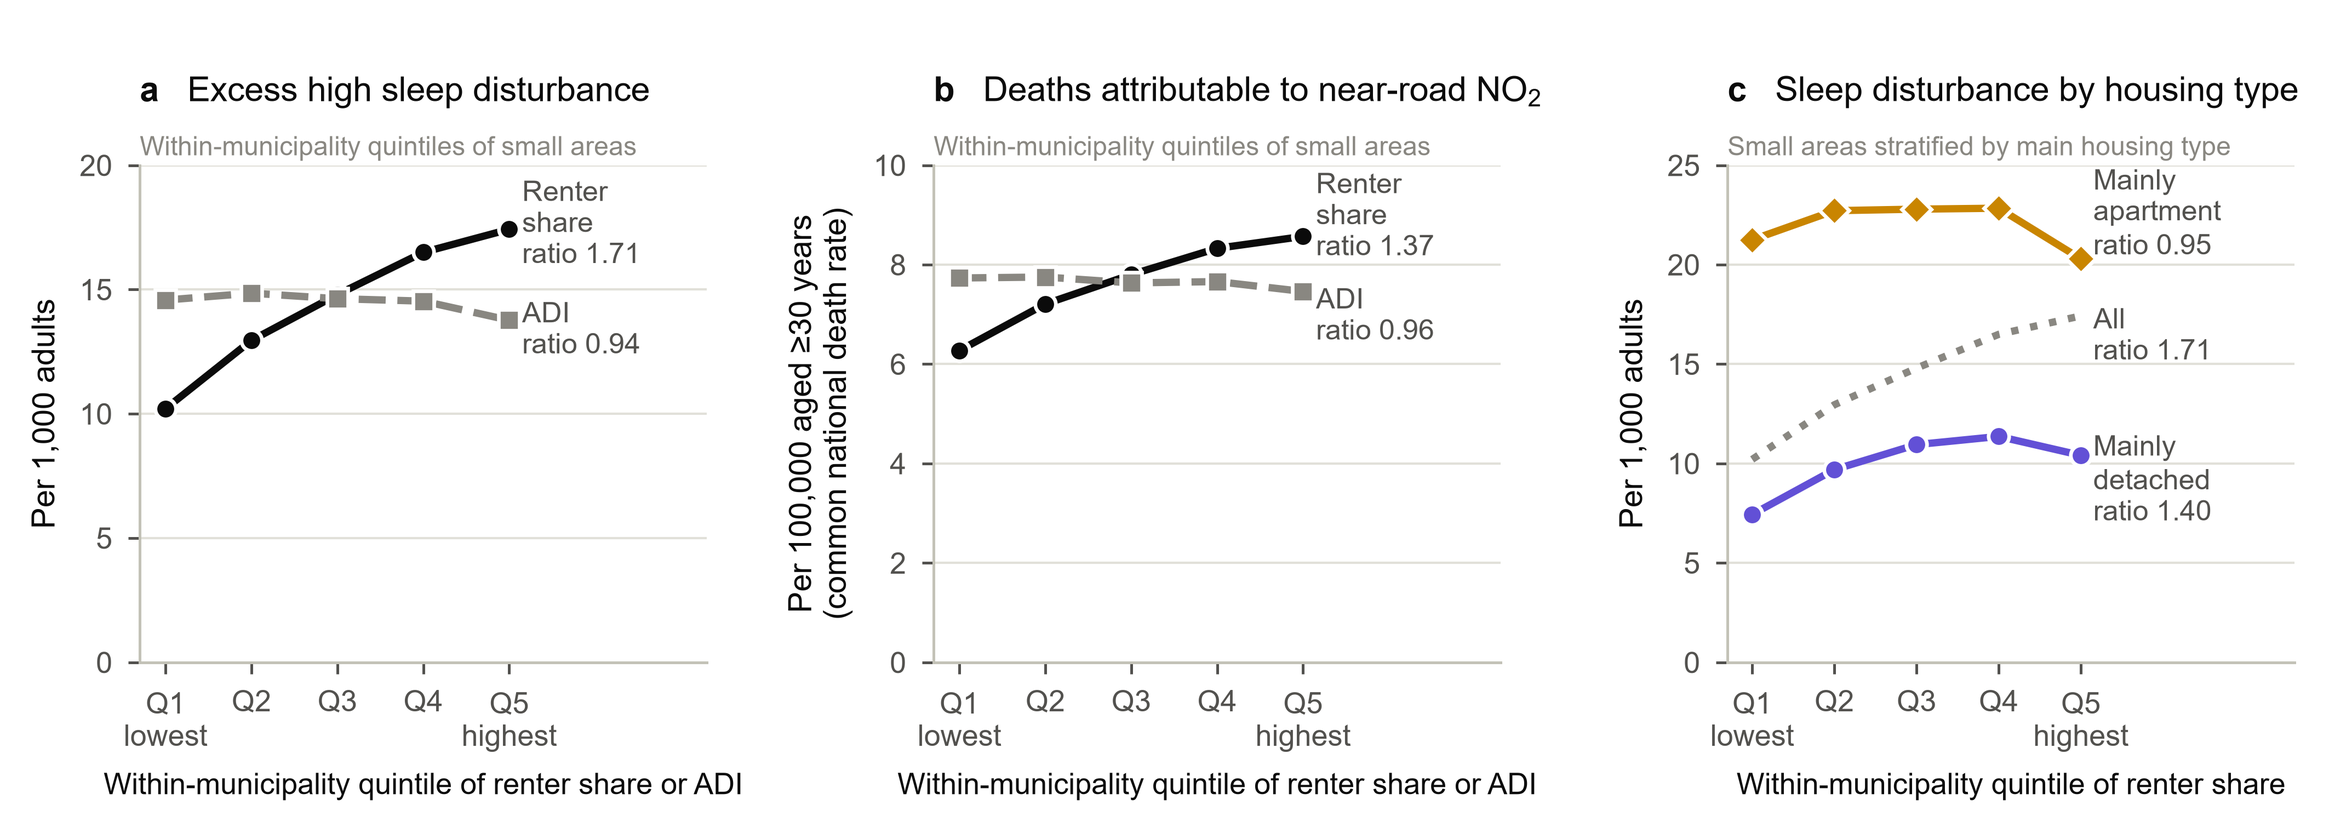
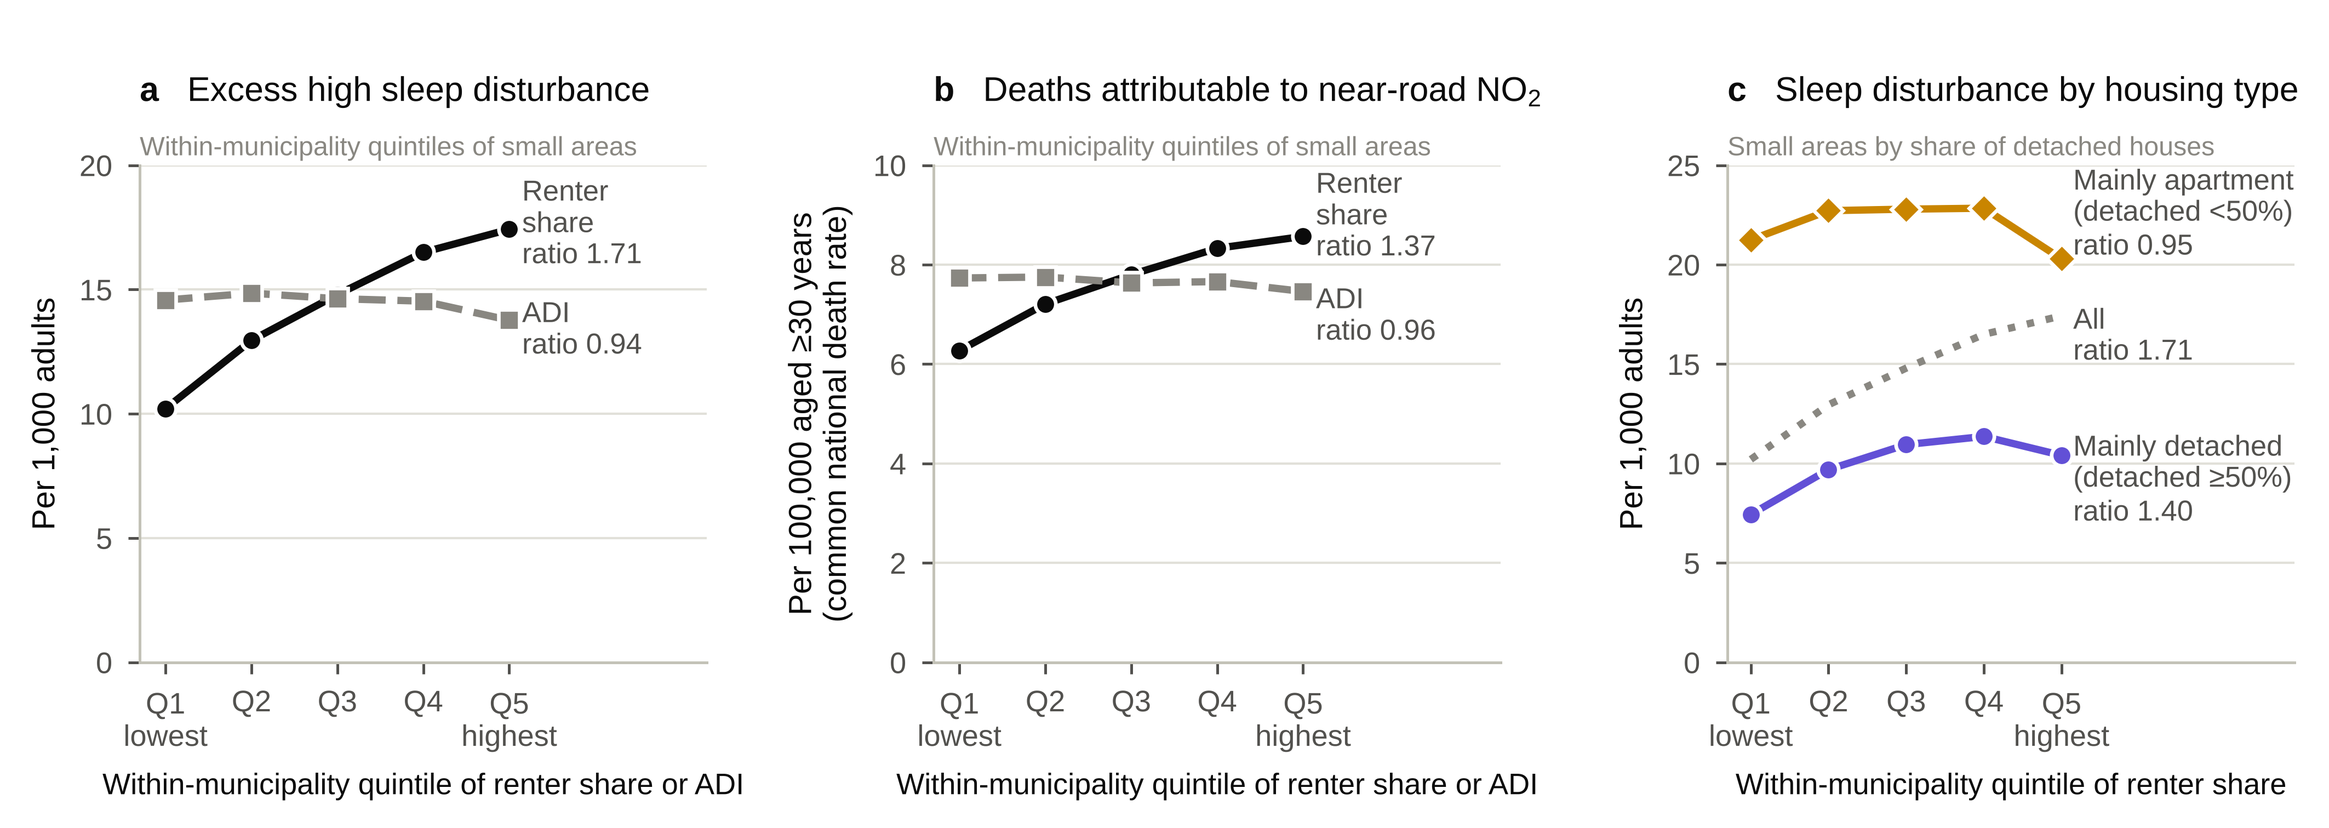
Show the simple roadside-population rule in Fig. 4 and add the NO2 co-benefit for gamma = 16
Fig. 4a: relative loss in sleep benefit and change in disparity ratio with consistent signs.
Fig. 2c: criterion of the housing-type groups shown in the labels.
Supplementary Table 7: NO2 deaths avoided with the equity-weighted allocation (gamma = 16).
README: wording of the main results.

diff --git a/src/paper/make_figures_en.py b/src/paper/make_figures_en.py
@@ -28,7 +28,7 @@ mpl.rcParams.update({'font.family': FONT, 'font.size': 7, 'axes.titlesize': 7.5,
     'figure.facecolor': 'white', 'axes.facecolor': 'white', 'savefig.dpi': 600, 'pdf.fonttype': 42, 'ps.fonttype': 42, 'axes.unicode_minus': True, 'legend.frameon': False,
     'mathtext.fontset': 'custom', 'mathtext.rm': FONT, 'mathtext.it': FONT + ':italic', 'mathtext.bf': FONT + ':bold', 'mathtext.default': 'regular'})
 INK = '#0b0b0b'; INK2 = '#52514e'; MUTED = '#898781'; GRID = '#e1e0d9'
-BLUE = '#2a78d6'; ORANGE = '#eb6834'; AQUA = '#1baf7a'; VIOLET = '#6250d6'; GRAY = '#898781'; LBLUE = '#86b6ef'
+BLUE = '#2a78d6'; ORANGE = '#eb6834'; AQUA = '#1baf7a'; VIOLET = '#6250d6'; GRAY = '#898781'; LBLUE = '#86b6ef'; OCHRE = '#c98500'
 BLUES = LinearSegmentedColormap.from_list('b', ['#cde2fb', '#86b6ef', '#3987e5', '#256abf', '#184f95', '#0d366b'])
 ORANGES = LinearSegmentedColormap.from_list('o', ['#fde6da', '#f6b393', '#ef8a5d', '#eb6834', '#b9461b', '#7a2c0f'])
 MM = 1 / 25.4
@@ -115,10 +115,10 @@ def fig2():
           'Per 1,000 adults', r'$\bf{a}$   Excess high sleep disturbance', 20, [0.3, -0.3])
     lines(axs[1], [('Renter\nshare', g('p_rent', 'all', 'NO2D_std_per100k30'), INK, '-', 'o'), ('ADI', g('ADI_raw', 'all', 'NO2D_std_per100k30'), MUTED, '--', 's')],
           'Per 100,000 aged ≥30 years\n(common national death rate)', r'$\bf{b}$   Deaths attributable to near-road NO$_2$', 10, [0.45, -0.45])
-    lines(axs[2], [('Mainly\ndetached', g('p_rent', 'detached_major', 'HSD_per1000adult'), VIOLET, '-', 'o'), ('Mainly\napartment', g('p_rent', 'apartment_major', 'HSD_per1000adult'), '#c98500', '-', 'D'),
-                   ('All', g('p_rent', 'all', 'HSD_per1000adult'), MUTED, ':', '')], 'Per 1,000 adults', r'$\bf{c}$   Sleep disturbance by housing type', 25, [-1.2, 2.3, -0.9], 7.6)
+    lines(axs[2], [('Mainly detached\n(detached ≥50%)', g('p_rent', 'detached_major', 'HSD_per1000adult'), VIOLET, '-', 'o'), ('Mainly apartment\n(detached <50%)', g('p_rent', 'apartment_major', 'HSD_per1000adult'), '#c98500', '-', 'D'),
+                   ('All', g('p_rent', 'all', 'HSD_per1000adult'), MUTED, ':', '')], 'Per 1,000 adults', r'$\bf{c}$   Sleep disturbance by housing type', 25, [-1.2, 2.3, -0.9], 8.0)
     for ax in axs[:2]: ax.text(0, 1.02, 'Within-municipality quintiles of small areas', transform=ax.transAxes, fontsize=5.8, color=MUTED)
-    axs[2].text(0, 1.02, 'Small areas stratified by main housing type', transform=axs[2].transAxes, fontsize=5.8, color=MUTED)
+    axs[2].text(0, 1.02, 'Small areas by share of detached houses', transform=axs[2].transAxes, fontsize=5.8, color=MUTED)
     for ax in axs: ax.set_xlabel('Within-municipality quintile of renter share or ADI' if ax is not axs[2] else 'Within-municipality quintile of renter share', fontsize=6.5)
     save(fig, 'Fig2')
 
@@ -172,12 +172,18 @@ def fig4():
         ax.set_xlim(*xlim); ax.set_ylim(*ylim); ax.set_xlabel(xl); ax.set_ylabel('Reduction in excess high sleep disturbance (%)')
         ax.yaxis.grid(True, color=GRID, lw=0.5); ax.xaxis.grid(True, color=GRID, lw=0.5); ax.set_axisbelow(True)
         ax.set_title(title, loc='left', fontsize=7.5, color=INK, pad=4)
-    def trade(ax, meas, xcol, allx, ally, big=True, g16left=False, all_left=False):
+    POPD = pd.read_csv(B + 'data/v10_popdensity_rule.csv').set_index('name').loc['adults200m_per_length']   # simple roadside-population rule (Supplementary Table 16)
+    def trade(ax, meas, xcol, allx, ally, big=True, g16left=False, all_left=False, simple=False):
         x = curve(meas, xcol); y = curve(meas, 'reduction_pct')
         ax.plot(x, y, color=LBLUE, lw=1.4, zorder=3); ax.scatter(x[1:-1], y[1:-1], s=10, color=LBLUE, ec='white', lw=0.5, zorder=4)
         s = 40 if big else 22; fs = 7 if big else 6.5
         ax.scatter([x[0]], [y[0]], s=s, color=BLUE, ec='white', lw=0.7, zorder=5); ax.scatter([x[-1]], [y[-1]], s=s, color=ORANGE, ec='white', lw=0.7, zorder=5)
-        ax.annotate('Efficient (γ = 0)', (x[0], y[0]), xytext=(4, -11), textcoords='offset points', fontsize=fs, color=INK, ha='left')
+        mask = dict(boxstyle='square,pad=0.15', fc='white', ec='none') if (simple and xcol == 'ratio') else None   # hides the dashed line behind the labels in panel a
+        ax.annotate('Efficient (γ = 0)', (x[0], y[0]), xytext=(7, 1) if simple else (4, -11), textcoords='offset points', fontsize=fs, color=INK, ha='left', va='center' if simple else 'baseline', bbox=mask)
+        if simple:
+            sx, sy = POPD[{'ratio': 'ratio', 'diff': 'gap'}[xcol]], POPD.red
+            ax.scatter([sx], [sy], s=s * 0.8, marker='P', color=OCHRE, ec='white', lw=0.6, zorder=6)
+            ax.annotate('Simple roadside-\npopulation rule', (sx, sy), xytext=(6, -3), textcoords='offset points', fontsize=6.8, color=INK2, ha='left', va='top', linespacing=1.1, bbox=mask)
         ax.annotate('Equity-weighted (γ = 16)', (x[-1], y[-1]), xytext=(-7, -3) if g16left else (-4, -11), textcoords='offset points', fontsize=fs, color=INK,
                     ha='right' if (g16left or not big) else 'center', va='center' if g16left else 'baseline')
         pts = [('Renter-share-only', pt(meas, 'old_rent', xcol), pt(meas, 'old_rent', 'reduction_pct'), AQUA, 'D'),
@@ -197,31 +203,31 @@ def fig4():
                         textcoords='offset points', fontsize=6.8 if big else 6.5, color=INK2, va='bottom' if U else 'top', linespacing=1.1)
         return x, y
     # a
-    frame(axa, r'$\bf{a}$   Low-noise pavement: sleep benefit and disparity ratio', 'Disparity ratio (Q5/Q1 of renter share, rate per adult)', (1.40, 1.80), (0, 35), base_ratio)
-    x, y = trade(axa, 'pav', 'ratio', 1.7085, 29.5867, all_left=True)
+    frame(axa, r'$\bf{a}$   Low-noise pavement: sleep benefit and disparity ratio', 'Disparity ratio (excess HSD rate, Q5/Q1 by renter share)', (1.40, 1.80), (0, 35), base_ratio)
+    x, y = trade(axa, 'pav', 'ratio', 1.7085, 29.5867, all_left=True, simple=True)
     axa.annotate('', xy=(x[-1], y[-1] + 1.0), xytext=(x[0], y[0] + 1.0), arrowprops=dict(arrowstyle='-|>', color=INK, lw=1.1, mutation_scale=9, connectionstyle='arc3,rad=0.12'))
     axa.text(0.03, 0.975, 'Central estimate: efficient → γ = 16', transform=axa.transAxes, fontsize=7, color=INK, va='top')
-    axa.text(0.03, 0.895, 'Sleep benefit', transform=axa.transAxes, fontsize=7, color=INK2, va='top')
-    axa.text(0.03, 0.855, '−2.7%', transform=axa.transAxes, fontsize=15, color=INK, va='top')
-    axa.text(0.03, 0.765, '22.1% → 21.5%', transform=axa.transAxes, fontsize=7, color=INK2, va='top')
-    axa.text(0.33, 0.895, 'Disparity ratio', transform=axa.transAxes, fontsize=7, color=INK2, va='top')
-    axa.text(0.33, 0.855, '−0.11', transform=axa.transAxes, fontsize=15, color=INK, va='top')
-    axa.text(0.33, 0.765, '1.63 → 1.52', transform=axa.transAxes, fontsize=7, color=INK2, va='top')
-    axa.text(0.97, 0.11, 'Uncertainty (sections fixed to the main selection;\n2.5th–97.5th percentiles of within-run differences)\nSleep benefit −2.6 to −2.8%\nDisparity ratio −0.15 to −0.07',
+    axa.text(0.03, 0.905, 'Relative loss in\nsleep benefit', transform=axa.transAxes, fontsize=7, color=INK2, va='top', linespacing=1.1)
+    axa.text(0.03, 0.835, '2.7%', transform=axa.transAxes, fontsize=14, color=INK, va='top')
+    axa.text(0.03, 0.75, '22.1% → 21.5%', transform=axa.transAxes, fontsize=7, color=INK2, va='top')
+    axa.text(0.33, 0.905, 'Change in\ndisparity ratio', transform=axa.transAxes, fontsize=7, color=INK2, va='top', linespacing=1.1)
+    axa.text(0.33, 0.835, '−0.11', transform=axa.transAxes, fontsize=14, color=INK, va='top')
+    axa.text(0.33, 0.75, '1.63 → 1.52', transform=axa.transAxes, fontsize=7, color=INK2, va='top')
+    axa.text(0.97, 0.11, 'Uncertainty (sections fixed to the main selection;\n2.5th–97.5th percentiles of within-run differences)\nRelative loss in sleep benefit 2.6 to 2.8%\nChange in disparity ratio −0.15 to −0.07',
              transform=axa.transAxes, fontsize=6.3, color=INK2, va='bottom', ha='right', multialignment='left', linespacing=1.35, bbox=dict(boxstyle='round,pad=0.45', fc='white', ec='#c3c2b7', lw=0.6))
     # b
     frame(axb, r'$\bf{b}$   Low-noise pavement: sleep benefit and absolute gap', 'Absolute gap (Q5 − Q1, per 1,000 adults)', (2.0, 7.7), (0, 35), base_gap, left=True)
-    x, y = trade(axb, 'pav', 'diff', 5.1072, 29.5867, g16left=True)
+    x, y = trade(axb, 'pav', 'diff', 5.1072, 29.5867, g16left=True, simple=True)
     g16x, g16y = x[-1], y[-1]; rx, ry = pt('pav', 'old_rent', 'diff'), pt('pav', 'old_rent', 'reduction_pct')
     axb.add_patch(plt.Rectangle((g16x, 0), 7.7 - g16x, g16y, color='#f0efec', lw=0, zorder=1))
     axb.text(5.0, 9.5, 'Larger gap and smaller\nreduction than γ = 16', fontsize=6.5, color=MUTED, ha='left', va='top')
     axb.annotate('', xy=(g16x + 0.03, g16y - 1.2), xytext=(rx - 0.02, ry + 1.0), arrowprops=dict(arrowstyle='-|>', color=INK, lw=1.0, mutation_scale=9))
     axb.text(0.03, 0.975, 'Central estimate: γ = 16 and renter-share-only', transform=axb.transAxes, fontsize=7, color=INK, va='top')
-    axb.text(0.03, 0.905, 'Absolute gap (per 1,000 adults)', transform=axb.transAxes, fontsize=7, color=INK2, va='top')
-    axb.text(0.03, 0.875, '4.5 < 4.7', transform=axb.transAxes, fontsize=15, color=INK, va='top')
-    axb.text(0.03, 0.79, 'Sleep benefit', transform=axb.transAxes, fontsize=7, color=INK2, va='top')
-    axb.text(0.03, 0.76, '21.5% > 14.1%', transform=axb.transAxes, fontsize=15, color=INK, va='top')
-    axb.text(0.03, 0.675, 'Smaller gap and larger benefit with γ = 16', transform=axb.transAxes, fontsize=7, color=INK2, va='top')
+    axb.text(0.03, 0.915, 'Absolute gap (per 1,000 adults)', transform=axb.transAxes, fontsize=7, color=INK2, va='top')
+    axb.text(0.03, 0.887, '4.5 < 4.7', transform=axb.transAxes, fontsize=14, color=INK, va='top')
+    axb.text(0.03, 0.81, 'Sleep benefit', transform=axb.transAxes, fontsize=7, color=INK2, va='top')
+    axb.text(0.03, 0.782, '21.5% > 14.1%', transform=axb.transAxes, fontsize=14, color=INK, va='top')
+    axb.text(0.03, 0.705, 'Smaller gap and larger benefit with γ = 16', transform=axb.transAxes, fontsize=7, color=INK2, va='top')
     gx = V7.loc['absgap_only']
     axb.scatter([gx.rent_gap], [gx.red], s=32, marker='o', color=VIOLET, ec='white', lw=0.6, zorder=5)
     axb.annotate('Gap-only', (gx.rent_gap, gx.red), xytext=(-4, -7), textcoords='offset points', fontsize=6.8, color=INK2, va='top')

diff --git a/src/paper/build_si_tables.py b/src/paper/build_si_tables.py
@@ -151,7 +151,7 @@ CHECK['t6c'] = rows; CHECK['cap_total_change_pct'] = 100 * (C.loc['none', 'HSD0'
 
 # ---------------------------------------------------------------- Table 7
 title(7, 'Reduction of nighttime heavy-vehicle traffic by 50% (10% of road length) and the co-benefit for NO2.',
-      'No shift of traffic to other hours or routes is assumed. Deaths attributable to near-road NO2 (age 30 years and over, relative risk 1.02 per 10 µg m⁻³) were recalculated after the fall in nighttime heavy-vehicle NOx emissions was applied to the near-road term of the NO2 model. Sections were selected by the reduction in excess HSD only. NO2 deaths were not calculated for γ = 16.')
+      'No shift of traffic to other hours or routes is assumed. Deaths attributable to near-road NO2 (age 30 years and over, relative risk 1.02 per 10 µg m⁻³) were recalculated after the fall in nighttime heavy-vehicle NOx emissions was applied to the near-road term of the NO2 model. Sections were selected by the reduction in excess HSD only.')
 N = pd.read_csv(B + 'v5_no2_heavy.csv').set_index('scenario'); A5 = pd.read_csv(B + 'v5_alloc_opt.csv'); A5 = A5[(A5.budget == 10) & (A5.measure == 'hv')].set_index('method')
 h = RND[RND.measure == 'hv']; allh = Q.loc[('hv', 'all')]
 def r7(lab, red, ratio, gap, nk):
@@ -159,7 +159,7 @@ def r7(lab, red, ratio, gap, nk):
 rows = [r7('Efficient allocation (γ = 0)', Q.loc[('hv', 'gamma0'), 'red_pct'], Q.loc[('hv', 'gamma0'), 'ratio'], Q.loc[('hv', 'gamma0'), 'gap'], 'opt_g0_b10'),
         r7('Equity-weighted, γ = 1', Q.loc[('hv', 'gamma1'), 'red_pct'], Q.loc[('hv', 'gamma1'), 'ratio'], Q.loc[('hv', 'gamma1'), 'gap'], 'opt_g1_b10'),
         r7('Equity-weighted, γ = 4', Q.loc[('hv', 'gamma4'), 'red_pct'], Q.loc[('hv', 'gamma4'), 'ratio'], Q.loc[('hv', 'gamma4'), 'gap'], 'opt_g4_b10'),
-        r7('Equity-weighted, γ = 16', Q.loc[('hv', 'gamma16'), 'red_pct'], Q.loc[('hv', 'gamma16'), 'ratio'], Q.loc[('hv', 'gamma16'), 'gap'], None),
+        r7('Equity-weighted, γ = 16', Q.loc[('hv', 'gamma16'), 'red_pct'], Q.loc[('hv', 'gamma16'), 'ratio'], Q.loc[('hv', 'gamma16'), 'gap'], 'opt_g16_b10'),
         r7('Renter-share-only allocation', A5.loc['old_rent', 'reduction_pct'], A5.loc['old_rent', 'ratio'], A5.loc['old_rent', 'diff'], 'old_rent_b10'),
         r7('Random allocation (mean of 100 orders; NO2 for one order)', h.red.mean(), h.ratio.mean(), h.gap.mean(), 'old_random00_b10'),
         r7('All sections treated', allh.red_pct, allh.ratio, allh.gap, 'all_b100')]
@@ -180,7 +180,7 @@ table(['Data', 'Content and year', 'Use in this study', 'Source'], [
 
 # ---------------------------------------------------------------- Table 9
 title(9, 'Small-area regressions of excess HSD on renter share.',
-      'Outcome: excess HSD per 1,000 adults in each small area (n = 208,743). Weighted least squares with population weights and municipality fixed effects; 95% confidence intervals from standard errors clustered by municipality. Renter share and apartment share are entered per 10 percentage points and per unit (0–1), respectively. Road density: length of census ordinary-road sections (km per km²). "Mainly apartment": small areas where detached houses are less than half of main households (47,841 small areas, 39% of the population).')
+      'Outcome: excess HSD per 1,000 adults in each small area (n = 208,743). Weighted least squares with population weights and municipality fixed effects; 95% confidence intervals from standard errors clustered by municipality. Renter share and apartment share are entered per 10 percentage points and per unit (0–1), respectively. Road density: length of census ordinary-road sections (km per km²). "Mainly apartment": small areas where detached houses are less than half of main households (47,841 small areas, 39% of the population; apartment buildings are half or more of main households for 95% of this population).')
 HR = pd.read_csv(B + 'v8_housing_regression.csv')
 TERM = {'rent10': 'Renter share (per 10 points)', 'road_dens': 'Road density (km per km²)', 'log_popdens': 'Log population density', 'p_apt': 'Apartment share (0–1)', 'apt_major': 'Mainly apartment (indicator)',
         'rent10_x_apt': 'Renter share × mainly apartment', 'slope_in_apartment_major': 'Slope of renter share in mainly-apartment areas', 'slope_in_detached_major': 'Slope of renter share in mainly-detached areas'}
@@ -295,10 +295,10 @@ table(['Allocation', 'Sections', 'Reduction (%)', 'Share of all-sections benefit
 title(17, 'Disability-adjusted life years (DALYs) for the two health outcomes assessed.',
       'Central estimates per year. The comparison is limited to the two outcomes of this study and does not cover all health effects of road traffic. YLD: excess HSD in adults × disability weight, treating the estimated state as lasting one year. YLL: deaths × 9.9 years, the mean remaining life expectancy at death for deaths at age 30 years and over (2022 abridged life table and 2022 deaths by five-year age group, both sexes combined).')
 hsd = Q.loc[('pav', 'none'), 'HSD0']; D = 6460.0; DJ = MC.loc['H_base', 'jcurve']
-table(['Outcome and assumption', 'Cases or deaths per year', 'DALYs per year'], [
+table(['Outcome and assumption', 'Adults with excess HSD or deaths per year', 'DALYs per year'], [
     ['Excess HSD in adults, WHO curve, disability weight 0.010 (ref. [[whodw2024]])', f(hsd, 0), f(hsd * 0.010, 0)],
     ['Same, disability weight 0.006 to 0.015 (95% uncertainty interval of the weight)', f(hsd, 0), f'{f(hsd * 0.006, 0)} to {f(hsd * 0.015, 0)}'],
-    ['Same, disability weight 0.07 (WHO, 2011)', f(hsd, 0), f(hsd * 0.07, 0)],
+    ['Same, disability weight 0.07 used in an earlier assessment (ref. [[who2011]])', f(hsd, 0), f(hsd * 0.07, 0)],
     ['Excess HSD in adults, Japanese curve (ref. [[morinaga2025]]), disability weight 0.010', f(DJ, 0), f(DJ * 0.010, 0)],
     ['Deaths attributable to near-road NO2, age 30 years and over, relative risk 1.02 per 10 µg m⁻³ (ref. [[huangfu2020]]), 9.9 years per death', '6,460', '63,800'],
     ['Same, years of life lost summed by age group in each small area', '6,460', '64,300'],

diff --git a/src/no2/no2_heavy.py b/src/no2/no2_heavy.py
@@ -16,7 +16,7 @@ n12=sum((N[f'{p}24l']-N[f'{p}12l']).clip(lower=0).fillna(0) for p in ('u','d')).
 K['dq_unit']=0.5*n12*nshare*nl2.ef(K.Vl.values,'large',2020,EFP)     # g/km/day removed if selected
 SC=pd.read_parquet(B+'data/alloc/section_scenarios.parquet',columns=['id','random00_b10','rent_b10','all']); SC['id']=SC.id.astype(str)
 OR=pd.read_parquet(B+'data/alloc/v5_opt_orders.parquet'); OR['id']=OR.id.astype(str)
-sel={'opt_g0_b10':OR.set_index('id').hv_order_g0.between(0,9),'opt_g1_b10':OR.set_index('id').hv_order_g1.between(0,9),'opt_g4_b10':OR.set_index('id').hv_order_g4.between(0,9),
+sel={'opt_g0_b10':OR.set_index('id').hv_order_g0.between(0,9),'opt_g1_b10':OR.set_index('id').hv_order_g1.between(0,9),'opt_g4_b10':OR.set_index('id').hv_order_g4.between(0,9),'opt_g16_b10':OR.set_index('id').hv_order_g16.between(0,9),
      'old_rent_b10':SC.set_index('id').rent_b10.astype(bool),'old_random00_b10':SC.set_index('id').random00_b10.astype(bool),'all_b100':SC.set_index('id')['all'].astype(bool)}
 qcols=['nox_gkmd']
 for k,s in sel.items(): K['dq_'+k]=K.dq_unit*s.reindex(K.id.values).fillna(False).values.astype(float); qcols.append('dq_'+k)

diff --git a/README.md b/README.md
@@ -12,9 +12,9 @@ The study asks where a limited amount of low-noise pavement should be placed. It
 
 ## Main results
 
-- Excess high sleep disturbance from nighttime road traffic noise affected 1.52 million adults (95% interval 1.07–2.09 million). The rate was 1.71 times higher in neighborhoods with the highest renter shares than in those with the lowest in the same municipality (17.4 versus 10.2 per 1,000 adults).
+- An estimated 1.52 million adults had excess high sleep disturbance from nighttime road traffic noise (95% interval 1.07–2.09 million). When neighborhoods were ranked by renter share within each municipality and pooled across the country, the rate in those with the highest renter shares was 1.71 times that in those with the lowest (17.4 versus 10.2 per 1,000 adults).
 - With an assumed 3 dB source reduction, treating the 10% of road length with the largest reduction per unit length reduced excess high sleep disturbance by 22.1%. This is 75% of the benefit of treating all sections (29.6%) and more than seven times the benefit of the random allocation (2.9%).
-- Weighting reductions in neighborhoods with higher renter shares (equity-weighted allocation, γ = 16) kept about 97% of that benefit (21.5%), lowered the disparity ratio from 1.63 to 1.52 and the absolute gap from 5.2 to 4.5 per 1,000 adults. Selection by renter share alone gave a reduction of 14.1% and an absolute gap of 4.7.
+- Weighting reductions in neighborhoods with higher renter shares (equity-weighted allocation, γ = 16) kept about 97% of the benefit of this efficient allocation (21.5% versus 22.1%), lowered the disparity ratio from 1.63 to 1.52 and the absolute gap from 5.2 to 4.5 per 1,000 adults. Selection by renter share alone gave a reduction of 14.1% and an absolute gap of 4.7.
 - A simple rule that ranks sections by the adult population within 200 m per unit length obtained 95% of the benefit of the efficient allocation.
 
 Figures 1–4 of the paper are in `figures/` (the sleep benefit and the disparity of each allocation are in `figures/Fig4.png`) and are made by `src/paper/make_figures_en.py`.

diff --git a/README_ja.md b/README_ja.md
@@ -10,9 +10,9 @@
 
 ## 主な結果
 
-- 夜間の道路交通騒音による高度の睡眠妨害（40 dB超過分）は成人152万人（95%区間 107万〜209万人）。同じ自治体の中で借家率が最も高い住宅地は、最も低い住宅地の1.71倍（成人1,000人あたり17.4人と10.2人）。
+- 夜間の道路交通騒音による高度の睡眠妨害（40 dB超過分）は成人152万人と推計される（95%区間 107万〜209万人）。自治体ごとに住宅地を借家率の順に5つに分け、全国で合算すると、借家率が最も高い住宅地の率は最も低い住宅地の1.71倍（成人1,000人あたり17.4人と10.2人）。
 - 音源を3 dB下げると仮定した場合、延長あたりの削減が大きい区間から道路延長の10%に施工すると、睡眠妨害は22.1%減る。全区間に施工した場合（29.6%）の75%にあたり、無作為配分（2.9%）の7倍を超える。
-- 借家率の高い住宅地での削減に重みを付けると（公平性の重み付き配分、γ = 16）、便益の約97%（21.5%）を保ったまま、格差の比は1.63から1.52に、絶対差は成人1,000人あたり5.2人から4.5人に下がる。借家率だけで選ぶと削減は14.1%、絶対差は4.7人。
+- 借家率の高い住宅地での削減に重みを付けると（公平性の重み付き配分、γ = 16）、この効率配分の便益の約97%（21.5%）を保ったまま、格差の比は1.63から1.52に、絶対差は成人1,000人あたり5.2人から4.5人に下がる。借家率だけで選ぶと削減は14.1%、絶対差は4.7人。
 - 区間から200 m以内の成人人口を延長で割った値の順に選ぶ簡便な基準でも、効率配分の便益の95%が得られる。
 
 ## 結果ファイル
